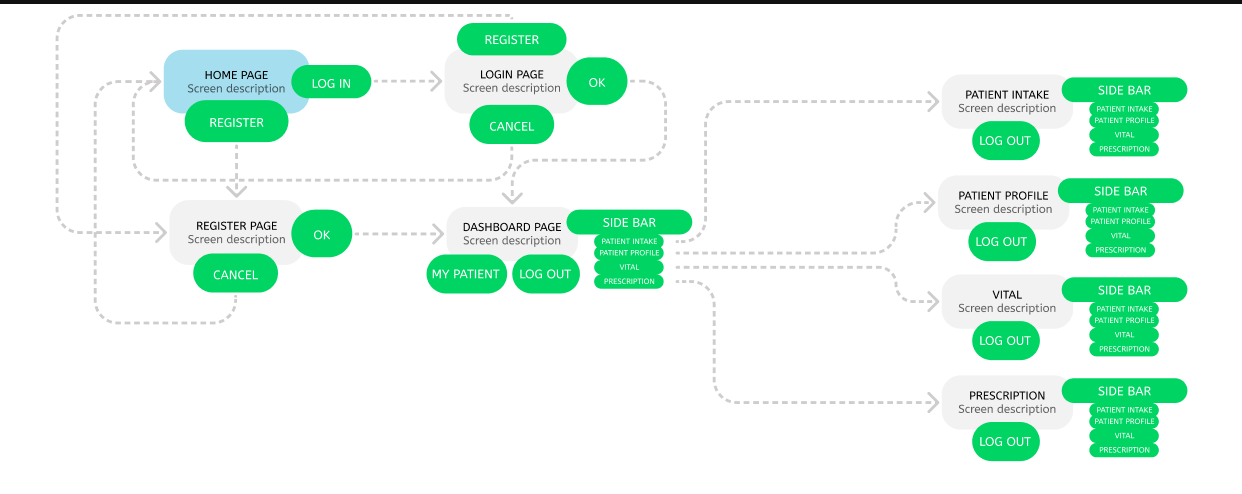
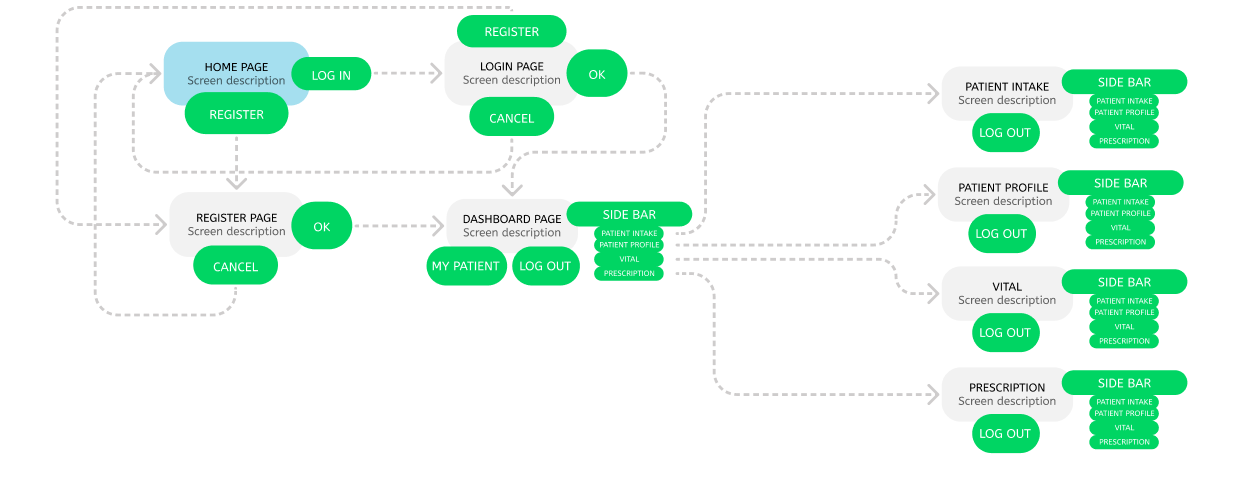
Report Bridging Stories and Systems: Workflow Design

diff --git a/smart hospital-paper/chapters/chapter03/chap03-02-02.tex b/smart hospital-paper/chapters/chapter03/chap03-02-02.tex
@@ -40,21 +40,45 @@ For each user story, we used the method we learned in the Software Engineering D
 
 \paragraph{Bridging Stories and Systems: Workflow Design}\mbox{}\\
 
+After writing the user stories, we started thinking about how these functions could actually connect with each other. For example, if a nurse records the patient’s blood pressure, the doctor should be able to see this data at the next visit. When the doctor checks the medical history and writes the diagnosis, the patient can then see the advice given by the doctor, and so on. 
+
+To make these workflows clearer, we drew user flow diagrams in Figma to show the paths of different roles in the system. As shown in Figure~\ref{fig:userflow-registration}, we began with the most basic authentication process, including login, registration, and password reset, so that all users can access the system.
+
 \begin{figure}[H]
    \centering
-   \includegraphics[width=0.8\linewidth]{../../images/userflow_registration.png}
+   \includegraphics[width=0.4\linewidth]{../../images/userflow_registration.png}
    \caption{User flow diagram for the registration process.}
    \label{fig:userflow-registration}
 \end{figure}
 
-The registration user flow ensures that new users can easily create accounts and proceed to the dashboard. The process is designed to be intuitive and minimize user friction.
-
+Next, we designed the main workflow for the patient role, as shown in Figure~\ref{fig:userflow-whole}. Starting from the dashboard, the patient can use the sidebar to navigate to different pages, including patient intake, patient profile, vital records, and prescription. Each page also contains the sidebar and a log out option, so that the user can switch between functions and log out at any time.
 \begin{figure}[H]
    \centering
-   \includegraphics[width=0.8\linewidth]{../../images/userflow_whole.png}
+   \includegraphics[width=1.1\linewidth]{../../images/userflow_whole.png}
    \caption{Overall user flow diagram of the system.}
    \label{fig:userflow-whole}
 \end{figure}
+
+
+For the function design on each role side, we followed how real hospitals usually work. 
+Patients can only see their own records and cannot see other people’s information. 
+For now, nurses can only enter vital signs. 
+Doctors have the most functions: they can view the full medical history and write diagnoses, 
+but they cannot change the patient’s basic information. 
+We think this setup is quite similar to how real hospitals operate. 
+
+One difference from real hospitals is that we also considered the remote consultation process. 
+After the patient makes an appointment, they can first see the doctor from home. 
+If the doctor thinks it is needed, the patient will then go to a clinic to measure vital signs, 
+or go to the hospital for further treatment. 
+This can reduce unnecessary visits, and at the same time still make sure we do not miss any patients who really need care. 
+
+The user flow diagrams we drew in Figma helped us make sure each function connects smoothly, 
+and they also gave the frontend team a clear reference for page navigation. 
+At this stage, we clarified the logic of the hospital side. 
+For example, the user must log in before entering the dashboard, 
+and from the dashboard they can directly or indirectly access all the designed pages. 
+These two basic user flow diagrams gave us a clear direction when we started designing the webpages.
 
 \paragraph{Visualizing Functionality: Prototyping with Figma}\mbox{}\\
 After we completed the workflow diagram, we used it as the foundation to divide tasks among team members. Each member is responsible for designing specific pages for different parts of the website while working all within a single file, shown as Figure~\ref{fig:3-2-2-DS-figma-f1}, simplified cross-reviewing and allowed for seamless handoffs instead of manually sending assets or screenshots . Next, we will introduce our layout design.
